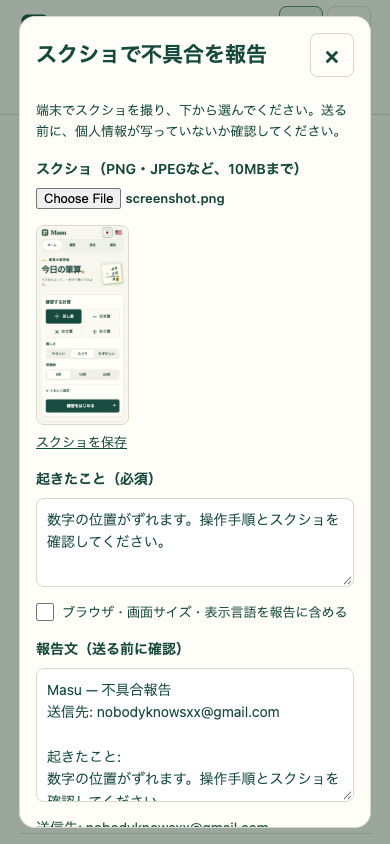
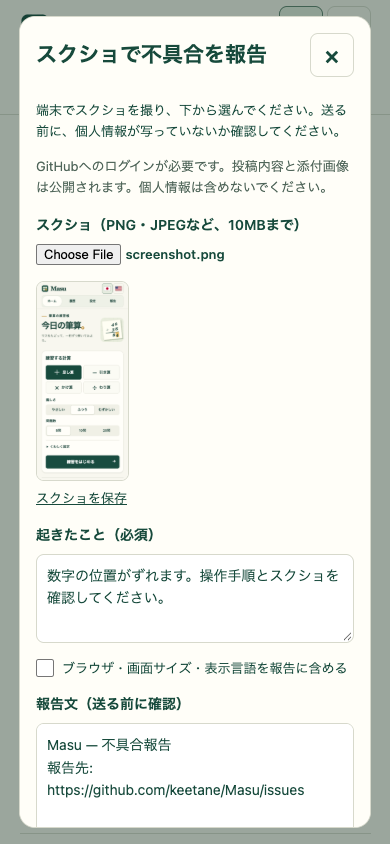
Use GitHub Issues for support and screenshot reports

diff --git a/public/privacy/index.html b/public/privacy/index.html
@@ -1,1 +1,1 @@
-<!doctype html><html lang="ja"><head><meta charset="utf-8"><meta name="viewport" content="width=device-width,initial-scale=1"><title>プライバシー・外部送信 | Masu</title><style>body{font:16px/1.8 system-ui;background:#f8f7ef;color:#194c40;max-width:48rem;margin:2rem auto;padding:1rem}h1{font-size:clamp(1.4rem,5vw,2rem);line-height:1.5;text-wrap:balance}p{white-space:pre-wrap;overflow-wrap:anywhere}a{color:inherit}nav{display:flex;flex-wrap:wrap;gap:1rem}[data-language]{display:none}html[lang="ja"] [data-language="ja"],html[lang="en"] [data-language="en"]{display:block}.language-switch{display:flex;justify-content:flex-end;gap:4px;margin-bottom:1rem}.language-switch button{display:grid;place-items:center;width:44px;min-height:44px;border:1px solid #d7d9cc;border-radius:8px;background:transparent;cursor:pointer}.language-switch [aria-pressed="true"]{background:#e5ecdf;border-color:#638371}.language-switch img{border:1px solid #b6bfb2;border-radius:2px}.language-switch button:focus-visible{outline:3px solid #bd7621;outline-offset:2px}</style><script src="../language.js"></script></head><body><main><div class="language-switch" role="group" aria-label="言語"><button type="button" data-set-language="ja" aria-label="日本語" title="日本語" aria-pressed="true"><img src="../flag-ja.svg" alt="" width="30" height="20"></button><button type="button" data-set-language="en" aria-label="English" title="English" aria-pressed="false"><img src="../flag-en.svg?v=us" alt="" width="30" height="20"></button></div><section data-language="ja" data-title="プライバシー・外部送信"><nav><a href="../index.html">← Masu ホーム</a><a href="../about/index.html">使い方</a><a href="../terms/index.html">利用規約</a><a href="../privacy/index.html">プライバシー</a><a href="../licenses/index.html">ライセンス</a></nav><h1>プライバシー・外部送信</h1><p>設定、途中の回答、直近30回・最大100問の結果を、この端末のブラウザ内（localStorage）に保存します。表示言語の選択もこのブラウザ内に保存します。名前・メールアドレスの入力やアカウント登録は不要です。設定から保存内容を削除できます。端末・ブラウザ・公開先が変わると保存場所も変わり、端末間では同期しません。</p><p>学習記録を自動でサーバーへ送信する機能、広告、アクセス解析、外部フォント・外部画像の読み込みはありません。アプリ自身は広告・解析用Cookieを使用しません。</p><p>GitHub Pages等のWeb配信元は、ページ取得の際にIPアドレスやブラウザ等の接続情報を処理する場合があります。配信事業者のプライバシー方針も確認してください。macOS版はMac上でページを配信し、同じWi-Fiの端末から接続する場合も学習記録は各端末のブラウザ内に保存します。</p><p>不具合報告では、自分で選んだスクショ・記入内容と、報告文に表示される情報をメールや選択した共有先へ渡せます。問題と入力位置の追加は任意です。ブラウザ・画面サイズ・表示言語も外せます。画像と報告文は自動送信・保存せず、学習履歴をまとめて送ることもありません。送信前に内容を確認してください。</p><p>広告や解析を導入する際には、送信先・情報・目的・必要な選択方法等を改めて表示します。現在の版では広告や解析のスクリプトを読み込みません。</p></section><section data-language="en" data-title="Privacy &amp; external communication"><nav><a href="../index.html">← Masu Home</a><a href="../about/index.html">Help</a><a href="../terms/index.html">Terms</a><a href="../privacy/index.html">Privacy</a><a href="../licenses/index.html">Licenses</a></nav><h1>Privacy &amp; external communication</h1><p>Settings, unfinished answers, and the most recent 30 sessions (up to 100 questions) are stored in this browser on this device using localStorage. Your language choice is also stored in this browser. No name, email address or account registration is required. Delete learning records from Settings. Records are separate for each device, browser and site address; they are not synchronized.</p><p>There is no feature that automatically sends learning records to a server, and no advertising, analytics, external fonts or external images are loaded. The application itself does not use advertising or analytics cookies.</p><p>The web host, such as GitHub Pages, may process connection information including your IP address and browser when you request pages. Please also consult the hosting provider's privacy policy. The macOS version serves pages from your Mac. When devices on the same Wi-Fi connect to it, learning records remain in each device's browser.</p><p>For bug reports, you can hand over a screenshot you choose, your description and the information shown in the report to your email or selected sharing app. Including the question and input position is optional. You can also exclude browser, screen size and language information. Images and drafts are not automatically sent or saved, and your full learning history is never included. Review the content before sending.</p><p>If advertising or analytics is introduced, information about recipients, data, purposes and any necessary choices will be provided again. This version does not load advertising or analytics scripts.</p></section></main></body></html>
+<!doctype html><html lang="ja"><head><meta charset="utf-8"><meta name="viewport" content="width=device-width,initial-scale=1"><title>プライバシー・外部送信 | Masu</title><style>body{font:16px/1.8 system-ui;background:#f8f7ef;color:#194c40;max-width:48rem;margin:2rem auto;padding:1rem}h1{font-size:clamp(1.4rem,5vw,2rem);line-height:1.5;text-wrap:balance}p{white-space:pre-wrap;overflow-wrap:anywhere}a{color:inherit}nav{display:flex;flex-wrap:wrap;gap:1rem}[data-language]{display:none}html[lang="ja"] [data-language="ja"],html[lang="en"] [data-language="en"]{display:block}.language-switch{display:flex;justify-content:flex-end;gap:4px;margin-bottom:1rem}.language-switch button{display:grid;place-items:center;width:44px;min-height:44px;border:1px solid #d7d9cc;border-radius:8px;background:transparent;cursor:pointer}.language-switch [aria-pressed="true"]{background:#e5ecdf;border-color:#638371}.language-switch img{border:1px solid #b6bfb2;border-radius:2px}.language-switch button:focus-visible{outline:3px solid #bd7621;outline-offset:2px}</style><script src="../language.js"></script></head><body><main><div class="language-switch" role="group" aria-label="言語"><button type="button" data-set-language="ja" aria-label="日本語" title="日本語" aria-pressed="true"><img src="../flag-ja.svg" alt="" width="30" height="20"></button><button type="button" data-set-language="en" aria-label="English" title="English" aria-pressed="false"><img src="../flag-en.svg?v=us" alt="" width="30" height="20"></button></div><section data-language="ja" data-title="プライバシー・外部送信"><nav><a href="../index.html">← Masu ホーム</a><a href="../about/index.html">使い方</a><a href="../terms/index.html">利用規約</a><a href="../privacy/index.html">プライバシー</a><a href="../licenses/index.html">ライセンス</a></nav><h1>プライバシー・外部送信</h1><p>設定、途中の回答、直近30回・最大100問の結果を、この端末のブラウザ内（localStorage）に保存します。表示言語の選択もこのブラウザ内に保存します。名前・メールアドレスの入力やアカウント登録は不要です。設定から保存内容を削除できます。端末・ブラウザ・公開先が変わると保存場所も変わり、端末間では同期しません。</p><p>学習記録を自動でサーバーへ送信する機能、広告、アクセス解析、外部フォント・外部画像の読み込みはありません。アプリ自身は広告・解析用Cookieを使用しません。</p><p>GitHub Pages等のWeb配信元は、ページ取得の際にIPアドレスやブラウザ等の接続情報を処理する場合があります。配信事業者のプライバシー方針も確認してください。macOS版はMac上でページを配信し、同じWi-Fiの端末から接続する場合も学習記録は各端末のブラウザ内に保存します。</p><p>不具合報告では、自分で選んだスクショ・記入内容と、報告文に表示される情報を確認できます。問題と入力位置の追加は任意です。ブラウザ・画面サイズ・表示言語も外せます。画像と報告文は自動送信・保存せず、学習履歴をまとめて送ることもありません。GitHubの報告画面を開くと、長すぎる場合を除き報告文がURL経由でGitHubへ渡されます。画像はGitHub上で手動添付します。投稿内容と添付画像は公開され、添付画像は投稿の確定前にもアップロードされます。ログインにはGitHubのアカウントが必要です。任意の共有操作では選択したアプリへ画像と報告文を渡せます。外部へ渡す前に内容を確認してください。</p><p>広告や解析を導入する際には、送信先・情報・目的・必要な選択方法等を改めて表示します。現在の版では広告や解析のスクリプトを読み込みません。</p></section><section data-language="en" data-title="Privacy &amp; external communication"><nav><a href="../index.html">← Masu Home</a><a href="../about/index.html">Help</a><a href="../terms/index.html">Terms</a><a href="../privacy/index.html">Privacy</a><a href="../licenses/index.html">Licenses</a></nav><h1>Privacy &amp; external communication</h1><p>Settings, unfinished answers, and the most recent 30 sessions (up to 100 questions) are stored in this browser on this device using localStorage. Your language choice is also stored in this browser. No name, email address or account registration is required. Delete learning records from Settings. Records are separate for each device, browser and site address; they are not synchronized.</p><p>There is no feature that automatically sends learning records to a server, and no advertising, analytics, external fonts or external images are loaded. The application itself does not use advertising or analytics cookies.</p><p>The web host, such as GitHub Pages, may process connection information including your IP address and browser when you request pages. Please also consult the hosting provider's privacy policy. The macOS version serves pages from your Mac. When devices on the same Wi-Fi connect to it, learning records remain in each device's browser.</p><p>For bug reports, review the screenshot you choose, your description and the information shown in the report. Including the question and input position is optional. You can also exclude browser, screen size and language information. Images and drafts are not automatically sent or saved; your full learning history is never included. Opening the GitHub report page passes the report text to GitHub in the URL unless it is too long. Attach the image manually on GitHub. Reports and attachments are public, and attachments are uploaded even before you confirm posting. A GitHub account is required to sign in. Optional sharing passes the image and report to an app you choose. Review the content before handing it over.</p><p>If advertising or analytics is introduced, information about recipients, data, purposes and any necessary choices will be provided again. This version does not load advertising or analytics scripts.</p></section></main></body></html>

diff --git a/public/about/index.html b/public/about/index.html
@@ -1,1 +1,1 @@
-<!doctype html><html lang="ja"><head><meta charset="utf-8"><meta name="viewport" content="width=device-width,initial-scale=1"><title>使い方・運営 | Masu</title><style>body{font:16px/1.8 system-ui;background:#f8f7ef;color:#194c40;max-width:48rem;margin:2rem auto;padding:1rem}h1{font-size:clamp(1.4rem,5vw,2rem);line-height:1.5;text-wrap:balance}p{white-space:pre-wrap;overflow-wrap:anywhere}a{color:inherit}nav{display:flex;flex-wrap:wrap;gap:1rem}[data-language]{display:none}html[lang="ja"] [data-language="ja"],html[lang="en"] [data-language="en"]{display:block}.language-switch{display:flex;justify-content:flex-end;gap:4px;margin-bottom:1rem}.language-switch button{display:grid;place-items:center;width:44px;min-height:44px;border:1px solid #d7d9cc;border-radius:8px;background:transparent;cursor:pointer}.language-switch [aria-pressed="true"]{background:#e5ecdf;border-color:#638371}.language-switch img{border:1px solid #b6bfb2;border-radius:2px}.language-switch button:focus-visible{outline:3px solid #bd7621;outline-offset:2px}</style><script src="../language.js"></script></head><body><main><div class="language-switch" role="group" aria-label="言語"><button type="button" data-set-language="ja" aria-label="日本語" title="日本語" aria-pressed="true"><img src="../flag-ja.svg" alt="" width="30" height="20"></button><button type="button" data-set-language="en" aria-label="English" title="English" aria-pressed="false"><img src="../flag-en.svg?v=us" alt="" width="30" height="20"></button></div><section data-language="ja" data-title="使い方・運営"><nav><a href="../index.html">← Masu ホーム</a><a href="../about/index.html">使い方</a><a href="../terms/index.html">利用規約</a><a href="../privacy/index.html">プライバシー</a><a href="../licenses/index.html">ライセンス</a></nav><h1>使い方・運営</h1><p>サポート：<a href="mailto:nobodyknowsxx@gmail.com">nobodyknowsxx@gmail.com</a></p><p><a href="https://keetane.github.io/Masu/">Webアプリを開く</a> ／ <a href="https://github.com/keetane/Masu">公開リポジトリ</a> ／ <a href="https://github.com/keetane/Masu/issues">お問い合わせ（GitHub Issues）</a></p><p>Masuは、たし算・ひき算・かけ算・わり算の筆算を練習できる無料のWebアプリです。アカウント登録は不要です。</p><p>演算、難しさ、問題数を選んで「はじめる」を押します。強調された入力先に数字を入れると、ナビONでは次の位置へ進みます。「確認」で採点し、履歴から復習できます。</p><p>スクショでの不具合報告は、ホームに戻り上部の「報告」から行えます。スクショと状況を選び、対応端末では画像付き共有、それ以外ではメール画面で画像を添付してください。</p><p>個人・家庭・学校・塾で無償で利用できます。利用条件と第三者ソフトウェアの権利表示は、利用規約・ライセンスのページで確認できます。</p><p>運営：keetane（公開リポジトリの所有者）。サポート・権利に関するお問い合わせは nobodyknowsxx@gmail.com へお寄せください。不具合の公開報告にはGitHub Issuesも利用できます。学習履歴や個人情報を公開の場所へ投稿しないでください。</p></section><section data-language="en" data-title="Help &amp; support"><nav><a href="../index.html">← Masu Home</a><a href="../about/index.html">Help</a><a href="../terms/index.html">Terms</a><a href="../privacy/index.html">Privacy</a><a href="../licenses/index.html">Licenses</a></nav><h1>Help &amp; support</h1><p>Support: <a href="mailto:nobodyknowsxx@gmail.com">nobodyknowsxx@gmail.com</a></p><p><a href="https://keetane.github.io/Masu/">Open Masu</a> ／ <a href="https://github.com/keetane/Masu">Repository</a> ／ <a href="https://github.com/keetane/Masu/issues">Contact (GitHub Issues)</a></p><p>Masu is a free web application for practicing written addition, subtraction, multiplication and division. No account is required.</p><p>Choose an operation, difficulty and number of questions, then select Start practice. Enter a digit at the highlighted position. With Auto ON, the next position is selected automatically. Select Check to mark your answers and use History to review your work.</p><p>To report a bug with a screenshot, return to Home and choose Report in the top menu. Select the screenshot and describe what happened. Supported devices can share the image; otherwise, attach it in your email app.</p><p>Individuals, families, schools and tutoring services may use Masu free of charge. See Terms and Licenses for the conditions of use and third-party software notices.</p><p>Operated by keetane, the owner of the public repository. For support and rights-related inquiries, contact nobodyknowsxx@gmail.com. You can also report bugs on GitHub Issues. Do not post personal information or learning records in public.</p></section></main></body></html>
+<!doctype html><html lang="ja"><head><meta charset="utf-8"><meta name="viewport" content="width=device-width,initial-scale=1"><title>使い方・運営 | Masu</title><style>body{font:16px/1.8 system-ui;background:#f8f7ef;color:#194c40;max-width:48rem;margin:2rem auto;padding:1rem}h1{font-size:clamp(1.4rem,5vw,2rem);line-height:1.5;text-wrap:balance}p{white-space:pre-wrap;overflow-wrap:anywhere}a{color:inherit}nav{display:flex;flex-wrap:wrap;gap:1rem}[data-language]{display:none}html[lang="ja"] [data-language="ja"],html[lang="en"] [data-language="en"]{display:block}.language-switch{display:flex;justify-content:flex-end;gap:4px;margin-bottom:1rem}.language-switch button{display:grid;place-items:center;width:44px;min-height:44px;border:1px solid #d7d9cc;border-radius:8px;background:transparent;cursor:pointer}.language-switch [aria-pressed="true"]{background:#e5ecdf;border-color:#638371}.language-switch img{border:1px solid #b6bfb2;border-radius:2px}.language-switch button:focus-visible{outline:3px solid #bd7621;outline-offset:2px}</style><script src="../language.js"></script></head><body><main><div class="language-switch" role="group" aria-label="言語"><button type="button" data-set-language="ja" aria-label="日本語" title="日本語" aria-pressed="true"><img src="../flag-ja.svg" alt="" width="30" height="20"></button><button type="button" data-set-language="en" aria-label="English" title="English" aria-pressed="false"><img src="../flag-en.svg?v=us" alt="" width="30" height="20"></button></div><section data-language="ja" data-title="使い方・運営"><nav><a href="../index.html">← Masu ホーム</a><a href="../about/index.html">使い方</a><a href="../terms/index.html">利用規約</a><a href="../privacy/index.html">プライバシー</a><a href="../licenses/index.html">ライセンス</a></nav><h1>使い方・運営</h1><p><a href="https://keetane.github.io/Masu/">Webアプリを開く</a> ／ <a href="https://github.com/keetane/Masu">公開リポジトリ</a> ／ <a href="https://github.com/keetane/Masu/issues">お問い合わせ（GitHub Issues）</a></p><p>Masuは、たし算・ひき算・かけ算・わり算の筆算を練習できる無料のWebアプリです。アカウント登録は不要です。</p><p>演算、難しさ、問題数を選んで「はじめる」を押します。強調された入力先に数字を入れると、ナビONでは次の位置へ進みます。「確認」で採点し、履歴から復習できます。</p><p>スクショでの不具合報告は上部の「報告」から行えます。スクショと状況を確認し、「GitHubで報告する」から作成画面を開いて画像を手動添付してください。ログインが必要で、投稿内容と添付画像は公開されます。</p><p>個人・家庭・学校・塾で無償で利用できます。利用条件と第三者ソフトウェアの権利表示は、利用規約・ライセンスのページで確認できます。</p><p>運営：keetane（公開リポジトリの所有者）。お問い合わせ・不具合報告はGitHub Issuesで受け付けます。GitHubへのログインが必要です。投稿内容と添付画像は公開されるため、学習履歴や個人情報を含めないでください。</p></section><section data-language="en" data-title="Help &amp; support"><nav><a href="../index.html">← Masu Home</a><a href="../about/index.html">Help</a><a href="../terms/index.html">Terms</a><a href="../privacy/index.html">Privacy</a><a href="../licenses/index.html">Licenses</a></nav><h1>Help &amp; support</h1><p><a href="https://keetane.github.io/Masu/">Open Masu</a> ／ <a href="https://github.com/keetane/Masu">Repository</a> ／ <a href="https://github.com/keetane/Masu/issues">Contact (GitHub Issues)</a></p><p>Masu is a free web application for practicing written addition, subtraction, multiplication and division. No account is required.</p><p>Choose an operation, difficulty and number of questions, then select Start practice. Enter a digit at the highlighted position. With Auto ON, the next position is selected automatically. Select Check to mark your answers and use History to review your work.</p><p>To report a bug with a screenshot, choose Report in the top menu. Review the screenshot and description, select Report on GitHub and attach the image manually on GitHub. Signing in is required; reports and attachments are public.</p><p>Individuals, families, schools and tutoring services may use Masu free of charge. See Terms and Licenses for the conditions of use and third-party software notices.</p><p>Operated by keetane, the owner of the public repository. Contact us and report bugs through GitHub Issues. You must sign in to GitHub. Reports and attachments are public; do not include personal information or learning records.</p></section></main></body></html>

diff --git a/src/BugReport.tsx b/src/BugReport.tsx
@@ -3,10 +3,11 @@ import { useI18n } from "./Language";
 import {
   canShareScreenshot,
   reportBody,
-  reportMailto,
+  reportIssueUrl,
   screenshotError,
+  screenshotLimit,
   screenshotName,
-  supportEmail,
+  supportUrl,
   type ReportContext,
 } from "./report";
 export function BugReport({
@@ -65,17 +66,41 @@ export function BugReport({
     const safe = new File([file], screenshotName(file.type), {
       type: file.type,
     });
-    const url = URL.createObjectURL(safe);
+    let url = URL.createObjectURL(safe);
     try {
       const preview = new Image();
       preview.src = url;
       await preview.decode();
+      let attachment = safe;
+      if (safe.type !== "image/png" && safe.type !== "image/jpeg") {
+        const canvas = document.createElement("canvas");
+        canvas.width = preview.naturalWidth;
+        canvas.height = preview.naturalHeight;
+        const drawing = canvas.getContext("2d");
+        if (!drawing) throw Error("Canvas unavailable");
+        drawing.drawImage(preview, 0, 0);
+        const png = await new Promise<Blob | null>((resolve) =>
+          canvas.toBlob(resolve, "image/png"),
+        );
+        if (!png) throw Error("PNG conversion failed");
+        if (png.size > screenshotLimit) {
+          if (sequence === selected.current)
+            setError("添付用PNGが10MBを超えます。小さな画像を選んでください。");
+          URL.revokeObjectURL(url);
+          return;
+        }
+        attachment = new File([png], screenshotName("image/png"), {
+          type: "image/png",
+        });
+        URL.revokeObjectURL(url);
+        url = URL.createObjectURL(attachment);
+      }
       if (sequence !== selected.current) {
         URL.revokeObjectURL(url);
         return;
       }
       imageUrl.current = url;
-      setImage({ file: safe, url });
+      setImage({ file: attachment, url });
     } catch {
       URL.revokeObjectURL(url);
       if (sequence === selected.current)
@@ -122,7 +147,7 @@ export function BugReport({
       setStatus(
         cancelled
           ? "共有をキャンセルしました。入力内容は残っています。"
-          : "共有できませんでした。報告文をコピーし、メールにスクショを添付してください。",
+          : "共有できませんでした。報告文をコピーし、GitHubでスクショを添付してください。",
       );
     } finally {
       setSharing(false);
@@ -158,6 +183,11 @@ export function BugReport({
       <p className="report-intro">
         {t(
           "端末でスクショを撮り、下から選んでください。送る前に、個人情報が写っていないか確認してください。",
+        )}
+      </p>
+      <p className="report-note">
+        {t(
+          "GitHubへのログインが必要です。投稿内容と添付画像は公開されます。個人情報は含めないでください。",
         )}
       </p>
       <label className="report-field">
@@ -231,12 +261,39 @@ export function BugReport({
         <textarea ref={previewText} readOnly rows={5} value={body} />
       </label>
       <p className="report-destination">
-        {t("送信先")}: <a href={"mailto:" + supportEmail}>{supportEmail}</a>
+        {t("報告先")}:{" "}
+        <a href={supportUrl} target="_blank" rel="noopener noreferrer">
+          GitHub Issues
+        </a>
+      </p>
+      <div className="report-actions">
+        <button type="button" disabled={!ready} onClick={() => void copy()}>
+          {t("報告文をコピー")}
+        </button>
+        {ready ? (
+          <a
+            className="report-issue"
+            href={reportIssueUrl(body)}
+            target="_blank"
+            rel="noopener noreferrer"
+          >
+            {t("GitHubで報告する")}
+          </a>
+        ) : (
+          <button type="button" disabled>
+            {t("GitHubで報告する")}
+          </button>
+        )}
+      </div>
+      <p className="report-note">
+        {t(
+          "GitHubの作成画面でスクショを手動添付してください。報告文が入っていない場合は、コピーして貼り付けてください。投稿はGitHub上で確定します。",
+        )}
       </p>
       {canShareScreenshot(image?.file ?? null) && (
         <>
           <button
-            className="primary wide"
+            className="wide"
             type="button"
             disabled={!ready}
             onClick={() => void share()}
@@ -245,33 +302,14 @@ export function BugReport({
           </button>
           <p className="report-note">
             {t(
-              "共有先でメールを選び、上の宛先へ送ってください。共有先によっては報告文の貼り付けも必要です。",
+              "画像と報告文を他のアプリへ渡せます。GitHubへ投稿する場合は「GitHubで報告する」を使ってください。",
             )}
           </p>
         </>
       )}
-      <div className="report-actions">
-        <button type="button" disabled={!ready} onClick={() => void copy()}>
-          {t("報告文をコピー")}
-        </button>
-        {ready ? (
-          <a className="report-mail" href={reportMailto(body)}>
-            {t("報告メールを開く")}
-          </a>
-        ) : (
-          <button type="button" disabled>
-            {t("報告メールを開く")}
-          </button>
-        )}
-      </div>
       <p className="report-note">
         {t(
-          "メール画面でスクショを添付してください。メールリンクには画像を自動添付できません。メールが開かない場合は、報告文をコピーして上の宛先へ送ってください。",
-        )}
-      </p>
-      <p className="report-note">
-        {t(
-          "画像と入力内容はこの画面内だけで扱い、自動送信・保存はしません。送信はメールや共有先で確定してください。",
+          "画像と入力内容はこの画面内だけで扱い、自動送信・保存はしません。GitHubの報告画面を開くと報告文が渡されます。",
         )}
       </p>
       {status && (

diff --git a/src/i18n.ts b/src/i18n.ts
@@ -16,7 +16,7 @@ const english: Record<string, string> = {
   スクショで不具合を報告: "Report a bug with a screenshot",
   閉じる: "Close",
   練習: "Practice",
-  送信先: "Send to",
+  報告先: "Report to",
   画面: "Screen",
   起きたこと: "What happened",
   入力位置: "Input position",
@@ -38,13 +38,17 @@ const english: Record<string, string> = {
   "報告文（送る前に確認）": "Report text (review before sending)",
   スクショと報告文を共有: "Share screenshot and report",
   報告文をコピー: "Copy report text",
-  報告メールを開く: "Open report email",
-  "共有先でメールを選び、上の宛先へ送ってください。共有先によっては報告文の貼り付けも必要です。":
-    "Choose an email app and send to the address above. You may need to paste the report text depending on the app.",
-  "メール画面でスクショを添付してください。メールリンクには画像を自動添付できません。メールが開かない場合は、報告文をコピーして上の宛先へ送ってください。":
-    "Attach the screenshot in your email app. Email links cannot attach images automatically. If email does not open, copy the report text and send it to the address above.",
-  "画像と入力内容はこの画面内だけで扱い、自動送信・保存はしません。送信はメールや共有先で確定してください。":
-    "The image and draft stay on this page; they are not automatically sent or saved. Confirm sending in your email or sharing app.",
+  GitHubで報告する: "Report on GitHub",
+  "GitHubへのログインが必要です。投稿内容と添付画像は公開されます。個人情報は含めないでください。":
+    "Sign in to GitHub to post. Your report and attachments will be public. Do not include personal information.",
+  "GitHubの作成画面でスクショを手動添付してください。報告文が入っていない場合は、コピーして貼り付けてください。投稿はGitHub上で確定します。":
+    "Attach the screenshot manually on GitHub. If the report text is missing, copy and paste it. Confirm posting on GitHub.",
+  "画像と報告文を他のアプリへ渡せます。GitHubへ投稿する場合は「GitHubで報告する」を使ってください。":
+    'You can share the image and report with other apps. To post on GitHub, use "Report on GitHub".',
+  "画像と入力内容はこの画面内だけで扱い、自動送信・保存はしません。GitHubの報告画面を開くと報告文が渡されます。":
+    "The image and draft stay on this page; they are not automatically sent or saved. Opening the GitHub report page passes the report text to GitHub.",
+  "添付用PNGが10MBを超えます。小さな画像を選んでください。":
+    "The PNG attachment exceeds 10 MB. Choose a smaller image.",
   "PNG・JPEG・WebP・AVIF・HEIC・HEIFの画像を選んでください。":
     "Choose a PNG, JPEG, WebP, AVIF, HEIC or HEIF image.",
   "画像は10MB以下の空でないファイルを選んでください。":
@@ -55,8 +59,8 @@ const english: Record<string, string> = {
     "Handed over to the sharing app. Check that sending is complete in that app.",
   "共有をキャンセルしました。入力内容は残っています。":
     "Sharing cancelled. Your draft is still here.",
-  "共有できませんでした。報告文をコピーし、メールにスクショを添付してください。":
-    "Sharing was unavailable. Copy the report text and attach the screenshot to an email.",
+  "共有できませんでした。報告文をコピーし、GitHubでスクショを添付してください。":
+    "Sharing was unavailable. Copy the report text and attach the screenshot on GitHub.",
   "報告文をコピーしました。": "Report text copied.",
   "報告文を選択しました。手動でコピーしてください。":
     "The report text is selected. Copy it manually.",

diff --git a/src/report.ts b/src/report.ts
@@ -1,5 +1,5 @@
 import { translate, type Language } from "./i18n.ts";
-export const supportEmail = "nobodyknowsxx@gmail.com";
+export const supportUrl = "https://github.com/keetane/Masu/issues";
 export const screenshotLimit = 10 * 1024 * 1024;
 export type ReportContext = {
   screen: string;
@@ -47,7 +47,7 @@ export function reportBody(options: {
   const t = (text: string) => translate(text, options.language);
   const lines = [
     "Masu — " + t("不具合報告"),
-    t("送信先") + ": " + supportEmail,
+    t("報告先") + ": " + supportUrl,
     "",
     t("起きたこと") + ":",
     options.description.trim(),
@@ -64,11 +64,13 @@ export function reportBody(options: {
   lines.push("", "https://keetane.github.io/Masu/");
   return lines.join("\n");
 }
-export function reportMailto(body: string): string {
-  const query = new URLSearchParams({ subject: "Masu bug report", body })
-    .toString()
-    .replaceAll("+", "%20");
-  return "mailto:" + supportEmail + "?" + query;
+export function reportIssueUrl(body: string): string {
+  const query = new URLSearchParams({ title: "Masu bug report", body });
+  const url = supportUrl + "/new?" + query;
+  // Long reports can exceed the server's request URL limit. Keep the draft
+  // available to copy and paste instead of truncating it.
+  if (url.length > 7500) query.delete("body");
+  return supportUrl + "/new?" + query;
 }
 export function canShareScreenshot(file: File | null): boolean {
   try {

diff --git a/src/style.css b/src/style.css
@@ -1016,7 +1016,7 @@ body:has(.bug-report[open]) {
   font-size: 14px;
   text-align: center;
 }
-.report-mail {
+.report-issue {
   display: grid;
   align-items: center;
   min-height: 44px;

diff --git a/docs/DEVELOPMENT.md b/docs/DEVELOPMENT.md
@@ -58,7 +58,7 @@ npm run bundle
 
 ## Web配信
 
-`dist/` を静的配信できます。相対baseとハッシュ遷移を使用しています。広告・外部解析の導入、広告アカウント登録、公開先へのデプロイは運営条件の確定後に行います。公開版の運営表示はkeetane、サポート窓口は nobodyknowsxx@gmail.com です。不具合の公開報告には公開リポジトリのGitHub Issuesも利用できます。
+`dist/` を静的配信できます。相対baseとハッシュ遷移を使用しています。広告・外部解析の導入、広告アカウント登録、公開先へのデプロイは運営条件の確定後に行います。公開版の運営表示はkeetane、お問い合わせ・不具合報告の窓口は公開リポジトリのGitHub Issuesです。個人メールアドレスは表示しません。
 
 - [設計指示書](../APP_DESIGN.md)
 - [権利・公開方針](../LICENSE_AND_RELEASE.md)
@@ -90,4 +90,4 @@ npm run test:report
 
 公開先は https://keetane.github.io/Masu/ 、ソースは https://github.com/keetane/Masu です。mainへのpushまたは手動実行で、.github/workflows/pages.ymlが検証・ビルド後にdistのみをPagesへ公開します。ビルドとデプロイを分離し、公開権限はデプロイジョブだけに付けています。Actionは公式の固定コミットを使用します。広告は有効化していません。
 
-不具合報告は`src/BugReport.tsx`と`src/report.ts`で実装しています。画像は10MBまでのPNG／JPEG／WebP／AVIF／HEIC／HEIFのうちブラウザで表示できるものを受け付けます。File共有の可否を確認してWeb Shareを使い、共有先への受け渡し後も送達済みとは表示しません。[W3C Web Share API](https://www.w3.org/TR/web-share/)に従い、非対応・拒否・キャンセルも扱います。メールリンクへ画像は自動添付せず、手動添付・本文コピー・画像保存を用意します。専用ブラウザ試験では共有APIを模擬し、実際のメール送信は行いません。
+不具合報告は`src/BugReport.tsx`と`src/report.ts`で実装しています。画像は10MBまでのPNG／JPEG／WebP／AVIF／HEIC／HEIFのうちブラウザで表示できるものを受け付けます。File共有の可否を確認してWeb Shareを使い、共有先への受け渡し後も送達済みとは表示しません。[W3C Web Share API](https://www.w3.org/TR/web-share/)に従い、非対応・拒否・キャンセルも扱います。GitHub Issuesの作成URLへタイトル・本文を渡し、画像はGitHub上で手動添付します。URLが7500文字を超える場合は本文を省略し、コピー・貼り付けで全文を渡します。[GitHubのIssue作成URL](https://docs.github.com/en/issues/tracking-your-work-with-issues/using-issues/creating-an-issue#creating-an-issue-from-a-url-query)の仕様を使います。PNG・JPEG以外の対応画像は添付用PNGへ変換し、変換後の10MB制限も検証します。公開投稿・GitHubログインの必要性と、GitHub上で添付すると投稿前でも画像がアップロードされる点を案内します。専用ブラウザ試験では共有APIを模擬し、実際のIssue投稿やアップロードは行いません。

diff --git a/README.md b/README.md
@@ -32,7 +32,7 @@
 
 設定、途中の回答、直近30回・最大100問の記録を、利用しているブラウザ内に保存します。端末間の同期はありません。ブラウザのサイトデータを消去すると記録も消えます。
 
-現在の版に広告・アクセス解析はなく、学習記録を自動でサーバーへ送信する機能もありません。不具合報告で選んだ画像・報告文は、自分の操作でメールや共有先へ渡せます。Web配信元はページ取得に伴う接続情報を処理する場合があります。[プライバシーについて](docs/PRIVACY.md)も確認してください。
+現在の版に広告・アクセス解析はなく、学習記録を自動でサーバーへ送信する機能もありません。不具合報告で選んだ画像・報告文は、自分の操作でGitHubや共有先へ渡せます。Web配信元はページ取得に伴う接続情報を処理する場合があります。[プライバシーについて](docs/PRIVACY.md)も確認してください。
 
 ## ライセンス・料金
 
@@ -44,6 +44,6 @@ React等の第三者ソフトウェアには、それぞれのライセンスが
 
 ## 運営・お問い合わせ
 
-運営：keetane。サポート・権利に関するお問い合わせは [nobodyknowsxx@gmail.com](mailto:nobodyknowsxx@gmail.com) へお寄せください。不具合の公開報告には[GitHub Issues](https://github.com/keetane/Masu/issues)も利用できます。個人情報・学習履歴は公開の場所へ投稿しないでください。
+運営：keetane。お問い合わせ・不具合報告は[GitHub Issues](https://github.com/keetane/Masu/issues)で受け付けます。GitHubへのログインが必要です。投稿内容と添付画像は公開されます。個人情報・学習履歴は含めないでください。
 
-上部メニューの「報告」でスクショ（PNG・JPEGなど、10MBまで）を選び、状況を記入できます。対応端末は画像と報告文を共有できます。メールを使う場合は、作成画面でスクショを手動添付してください。送信先は上記サポートアドレスです。
+上部メニューの「報告」でスクショ（PNG・JPEGなど、10MBまで）を選び、状況を記入できます。「GitHubで報告する」で報告文付きの作成画面を開き、スクショを手動添付してください。長い報告文が引き継がれない場合は「報告文をコピー」で貼り付けられます。PNG・JPEG以外の対応画像は、添付用にPNGへ変換します。画像は選択・プレビューするだけでは外部に送信されません。

diff --git a/APP_DESIGN.md b/APP_DESIGN.md
@@ -80,7 +80,7 @@
 
 ## 4. 画面と導線
 
-上部メニューに「報告」を置き、現在の画面から移動せずスクショ付きの不具合報告を作れる。画像は端末で撮って選択し、プレビュー・説明・任意の問題情報・動作環境を確認する。対応端末ではWeb Shareで画像と報告文を共有し、非対応時は報告メール作成と本文コピー、画像の手動添付を案内する。画像・下書きを自動送信・永続保存せず、履歴全体を報告へ含めない。報告中は筆算の数字・移動キーを無効にし、閉じたら元の練習に戻る。共有の完了をメール送達と同一視しない。
+上部メニューに「報告」を置き、現在の画面から移動せずスクショ付きの不具合報告を作れる。画像は端末で撮って選択し、プレビュー・説明・任意の問題情報・動作環境を確認する。GitHub Issuesへ報告文付きの作成リンクを用意し、スクショをGitHub上で手動添付する。長い本文はURL制限を避けてコピー・貼り付けに切り替える。PNG・JPEG以外は添付用PNGへ変換し、変換後も10MBまでとする。GitHubログインが必要で、投稿と添付画像が公開されることを明記する。対応端末では任意のWeb Shareも利用できる。画像・下書きを自動送信・永続保存せず、履歴全体を報告へ含めない。報告中は筆算の数字・移動キーを無効にし、閉じたら元の練習に戻る。共有の完了をIssue投稿と同一視しない。
 
 表示言語は日本語・英語に対応する。ヘッダーの日本・米国のSVG国旗ボタンで切り替え、選択はブラウザ内へ保存する。初期値は日本語。ボタンは文字を表示せず、スクリーンリーダー用の言語名・選択状態と44px以上の操作領域を持たせる。言語切替で回答・採点・履歴を変更しない。筆算の案内・ヒント・アクセシビリティラベル、結果・設定、使い方・規約・プライバシー・ライセンスページも切り替える。ライセンス英訳は参考訳とし、日本語の原文と第三者の本文を保持する。
 

diff --git a/docs/PRIVACY.md b/docs/PRIVACY.md
@@ -6,7 +6,7 @@
 
 GitHub Pages等のWeb配信元は、ページ取得の際にIPアドレスやブラウザ等の接続情報を処理する場合があります。配信事業者のプライバシー方針も確認してください。macOS版はMac上でページを配信し、同じWi-Fiの端末から接続する場合も学習記録は各端末のブラウザ内に保存します。
 
-不具合報告では、自分で選んだスクショ・記入内容と、報告文に表示される情報をメールや選択した共有先へ渡せます。問題と入力位置の追加は任意です。ブラウザ・画面サイズ・表示言語も外せます。画像と報告文は自動送信・保存せず、学習履歴をまとめて送ることもありません。送信前に内容を確認してください。
+不具合報告では、自分で選んだスクショ・記入内容と、報告文に表示される情報を確認できます。問題と入力位置の追加は任意です。ブラウザ・画面サイズ・表示言語も外せます。画像と報告文は自動送信・保存せず、学習履歴をまとめて送ることもありません。GitHubの報告画面を開くと、長すぎる場合を除き報告文がURL経由でGitHubへ渡されます。画像はGitHub上で手動添付します。投稿内容と添付画像は公開され、添付画像は投稿の確定前にもアップロードされます。ログインにはGitHubのアカウントが必要です。任意の共有操作では選択したアプリへ画像と報告文を渡せます。外部へ渡す前に内容を確認してください。
 
 広告や解析を導入する際には、送信先・情報・目的・必要な選択方法等を改めて表示します。現在の版では広告や解析のスクリプトを読み込みません。
 
